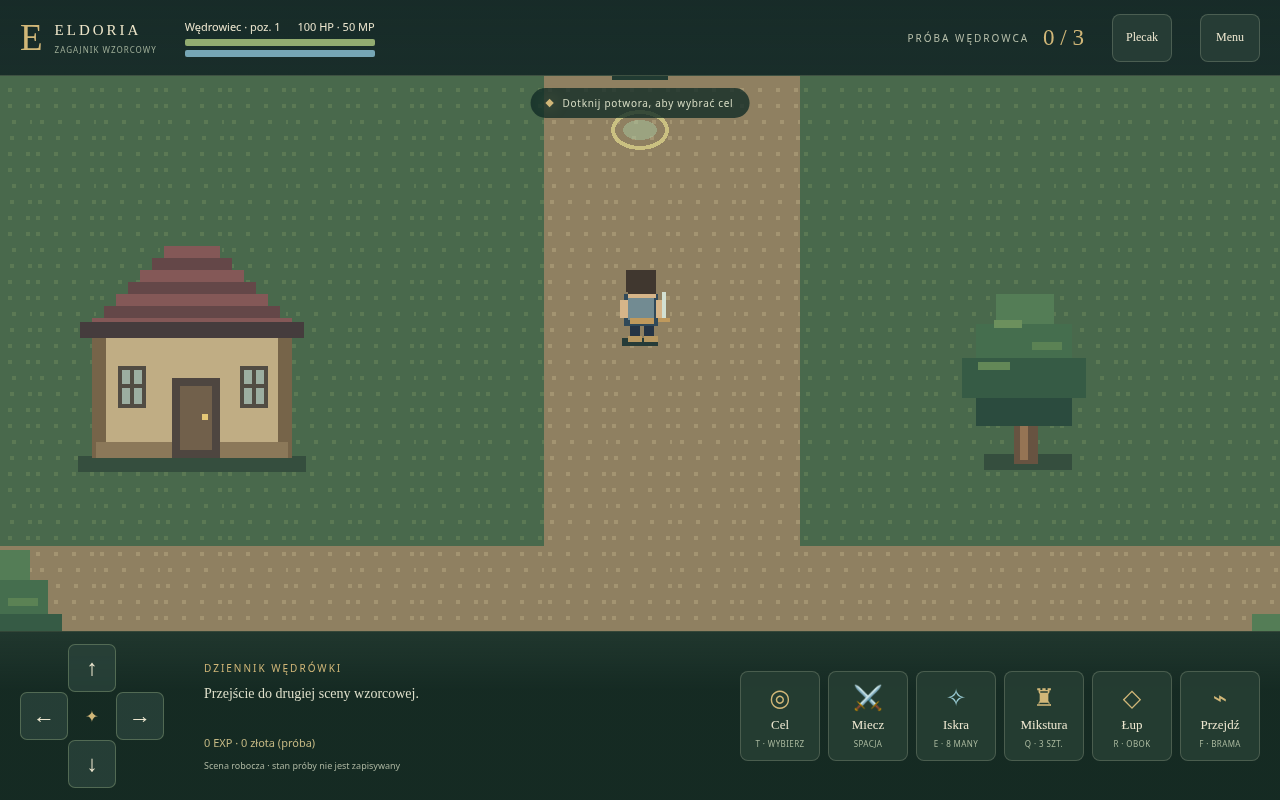
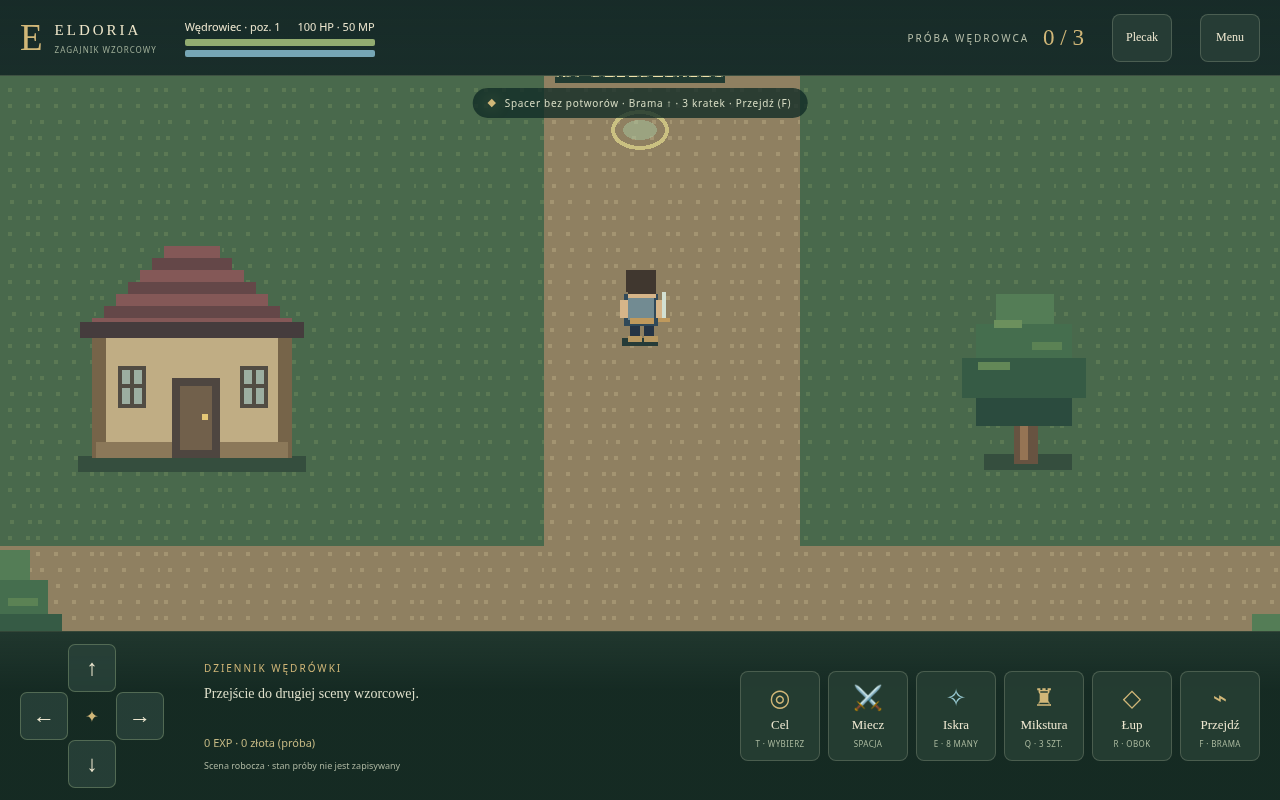
Start trials beside monsters and clarify portal navigation

Changed region(s): [[0.375, 0.0938, 0.625, 0.1562]]

diff --git a/apps/client/src/main.ts b/apps/client/src/main.ts
@@ -22,6 +22,7 @@ let gateway: LocalGateway | undefined;
 let snapshot: Snapshot | undefined;
 let unsubscribe: (() => void) | undefined;
 let playing = false;
+let walkingOnly = false;
 const bagDialog = element<HTMLDialogElement>('#bag');
 let completionDismissed = false;
 let bagSignature = '';
@@ -108,11 +109,19 @@ class World extends Phaser.Scene {
     }
     for (const d of map.decorations) this.objects.push(this.add.image(d.x * 32 + 16, d.y * 32 + 32, d.kind).setOrigin(.5, 1).setDepth(d.y * 32 + 33));
     for (const p of map.portals) {
+      const enter = () => {
+        if (playing && ui.complete.hidden && !bagDialog.open) gateway?.send({ type: 'Interact' });
+      };
       const glow = this.add.graphics().setDepth(-10);
+      glow.setInteractive(new Phaser.Geom.Ellipse(p.x * 32 + 16, p.y * 32 + 16, 48, 48), Phaser.Geom.Ellipse.Contains);
+      glow.input!.cursor = 'pointer';
+      glow.on('pointerdown', enter);
       glow.lineStyle(2, 0xd1c785, .9).strokeEllipse(p.x * 32 + 16, p.y * 32 + 16, 27, 18);
       glow.fillStyle(0xa7c7a0, .5).fillEllipse(p.x * 32 + 16, p.y * 32 + 16, 17, 10);
       this.objects.push(glow);
-      this.objects.push(this.add.text(p.x * 32 + 16, p.y * 32 - 14, 'BRAMA', { fontFamily: 'monospace', fontSize: '9px', color: '#efe2ac', backgroundColor: '#213b32' }).setOrigin(.5));
+      const label = this.add.text(p.x * 32 + 16, p.y * 32 - 14, p.targetMapId === 'grove' ? 'DO ZAGAJNIKA' : 'NA DZIEDZINIEC', { fontFamily: 'monospace', fontSize: '10px', color: '#efe2ac', backgroundColor: '#213b32' }).setOrigin(.5).setInteractive({ useHandCursor: true });
+      label.on('pointerdown', enter);
+      this.objects.push(label);
     }
     this.cameras.main.setBounds(0, 0, map.width * 32, map.height * 32);
     this.playerPosition = '';
@@ -179,7 +188,20 @@ function updateUI(s: Snapshot): void {
   ui.rewards.textContent = `${s.exp} EXP · ${s.gold} złota (próba)`;
   ui.potionCount.textContent = `Q · ${s.potions} SZT.`;
   const target = s.creatures.find(c => c.id === s.selectedId && c.hp > 0);
-  ui.targetLabel.textContent = target ? `${monsters[target.kind].name} · ${target.hp} HP · ${target.x > s.player.x ? '→' : target.x < s.player.x ? '←' : ''}${target.y > s.player.y ? '↓' : target.y < s.player.y ? '↑' : ''} ${Math.abs(target.x - s.player.x) + Math.abs(target.y - s.player.y)} kratek` : 'Dotknij potwora, aby wybrać cel';
+  const map = maps.find(m => m.id === s.mapId)!;
+  const distance = (p: { x: number; y: number }) => Math.abs(p.x - s.player.x) + Math.abs(p.y - s.player.y);
+  const portal = [...map.portals].sort((a, b) => distance(a) - distance(b))[0];
+  const gateHint = portal ? `Brama ${portal.x > s.player.x ? '→' : portal.x < s.player.x ? '←' : ''}${portal.y > s.player.y ? '↓' : portal.y < s.player.y ? '↑' : ''} · ${distance(portal)} kratek · Przejdź (F)` : '';
+  const interact = element<HTMLButtonElement>('#interact');
+  interact.classList.toggle('ready', !!portal && distance(portal) <= 1);
+  interact.title = portal && distance(portal) <= 1 ? 'Brama w zasięgu — kliknij Przejdź lub bramę' : 'Podejdź obok bramy; można też kliknąć ją na mapie';
+  if (walkingOnly) ui.targetLabel.textContent = `Spacer bez potworów · ${gateHint}`;
+  else if (!map.combatAllowed) ui.targetLabel.textContent = `Bezpieczny dziedziniec · Potwory za bramą · ${gateHint}`;
+  else if (target) ui.targetLabel.textContent = `${monsters[target.kind].name} · ${target.hp} HP · ${target.x > s.player.x ? '→' : target.x < s.player.x ? '←' : ''}${target.y > s.player.y ? '↓' : target.y < s.player.y ? '↑' : ''} ${distance(target)} kratek`;
+  else {
+    const count = s.creatures.filter(c => c.hp > 0).length;
+    ui.targetLabel.textContent = count ? `Potwory: ${count} · Dotknij stworzenia lub wybierz Cel (T)` : 'Potwory odradzają się — zaczekaj lub rozpocznij nową próbę';
+  }
   ui.complete.hidden = !s.complete || completionDismissed;
   if (!ui.complete.hidden) resetInput();
   if (bagDialog.open) renderBag(s);
@@ -189,7 +211,9 @@ function updateUI(s: Snapshot): void {
 }
 function start(name: string): void {
   unsubscribe?.(); gateway?.disconnect(); resetInput();
-  gateway = new LocalGateway(new Simulation(maps, name, { now: () => performance.now() }, element<HTMLInputElement>('#walk-mode').checked ? [] : undefined));
+  walkingOnly = element<HTMLInputElement>('#walk-mode').checked;
+  const startingMaps = walkingOnly ? maps : [...maps.filter(m => m.combatAllowed), ...maps.filter(m => !m.combatAllowed)];
+  gateway = new LocalGateway(new Simulation(startingMaps, name, { now: () => performance.now() }, walkingOnly ? [] : undefined));
   unsubscribe = gateway.subscribe(updateUI); gateway.connect();
   completionDismissed = false; ui.complete.hidden = true; playing = true; ui.menu.hidden = true; ui.hud.hidden = false;
 }
@@ -217,18 +241,19 @@ for (const button of document.querySelectorAll<HTMLButtonElement>('[data-directi
   });
   for (const name of ['pointerup', 'pointercancel', 'lostpointercapture']) button.addEventListener(name, event => pointerDirections.delete((event as PointerEvent).pointerId));
 }
-const keyDirections: Record<string, Direction> = { ArrowUp: 'up', ArrowDown: 'down', ArrowLeft: 'left', ArrowRight: 'right', w: 'up', s: 'down', a: 'left', d: 'right' };
+const keyDirections: Record<string, Direction> = { arrowup: 'up', arrowdown: 'down', arrowleft: 'left', arrowright: 'right', w: 'up', s: 'down', a: 'left', d: 'right' };
 window.addEventListener('keydown', event => {
   if (!playing || event.target instanceof HTMLInputElement) return;
-  if (event.key === 't' && !event.repeat && !bagDialog.open) { event.preventDefault(); cycleTarget(); return; }
-  if (event.key === 'i' && !event.repeat) { event.preventDefault(); toggleBag(); return; }
+  const key = event.key.toLowerCase();
+  if (key === 't' && !event.repeat && !bagDialog.open) { event.preventDefault(); cycleTarget(); return; }
+  if (key === 'i' && !event.repeat) { event.preventDefault(); toggleBag(); return; }
   if (!ui.complete.hidden || bagDialog.open) return;
-  const d = keyDirections[event.key];
-  if (d) { event.preventDefault(); heldKeys.set(event.key, d); if (!event.repeat) movement(); return; }
-  const type = ({ ' ': 'Attack', e: 'Cast', q: 'UseItem', f: 'Interact', r: 'Loot' } as const)[event.key as ' ' | 'e' | 'q' | 'f' | 'r'];
+  const d = keyDirections[key];
+  if (d) { event.preventDefault(); heldKeys.set(key, d); if (!event.repeat) movement(); return; }
+  const type = ({ ' ': 'Attack', e: 'Cast', q: 'UseItem', f: 'Interact', r: 'Loot' } as const)[key as ' ' | 'e' | 'q' | 'f' | 'r'];
   if (type && !event.repeat) { event.preventDefault(); gateway?.send({ type }); }
 });
-window.addEventListener('keyup', event => { heldKeys.delete(event.key); });
+window.addEventListener('keyup', event => { heldKeys.delete(event.key.toLowerCase()); });
 window.addEventListener('blur', resetInput);
 window.addEventListener('resize', resetInput);
 document.addEventListener('visibilitychange', () => {

diff --git a/tests/e2e/client.spec.ts b/tests/e2e/client.spec.ts
@@ -6,11 +6,16 @@ async function start(page: Page, walk = false) {
   await page.getByRole('button', { name: 'Rozpocznij' }).click();
   await expect(page.locator('#hud')).toBeVisible();
   await expect(page.locator('#hud')).toHaveAttribute('data-position', '13,11');
-  await page.waitForTimeout(500);
-  for (let i = 0; i < 7; i++) { await page.keyboard.press('ArrowUp'); await page.waitForTimeout(220); }
-  await page.getByRole('button', { name: /Przejdź/ }).click();
-  await expect(page.locator('#hud')).toHaveAttribute('data-map', 'grove');
-  await expect(page.locator('#hud')).toHaveAttribute('data-position', '13,11');
+  await expect(page.locator('#hud')).toHaveAttribute('data-map', walk ? 'courtyard' : 'grove');
+  if (walk) {
+    await expect(page.locator('#target-label')).toContainText('Spacer bez potworów');
+    await page.waitForTimeout(220);
+    for (let i = 0; i < 7; i++) { await page.keyboard.press('ArrowUp'); await page.waitForTimeout(220); }
+    await page.getByRole('button', { name: /Przejdź/ }).click();
+    await expect(page.locator('#hud')).toHaveAttribute('data-map', 'grove');
+    await expect(page.locator('#hud')).toHaveAttribute('data-position', '13,11');
+    await expect(page.locator('#target-label')).toContainText('Spacer bez potworów');
+  } else await expect(page.locator('#target-label')).toContainText('Potwory: 3');
   await page.waitForTimeout(500);
 }
 async function selectRat(page: Page, offsetX: number, offsetY: number) {
@@ -129,4 +134,32 @@ test('style review screenshots and touch control sizes', async ({ page }, testIn
     const box = await button.boundingBox();
     expect(box?.width).toBeGreaterThanOrEqual(48); expect(box?.height).toBeGreaterThanOrEqual(48);
   }
+});
+
+
+test('safe courtyard keeps directions visible and clicking its nearby gate returns to monsters', async ({ page }) => {
+  test.setTimeout(60000);
+  await start(page);
+  for (let i = 0; i < 7; i++) { await page.waitForTimeout(220); await page.keyboard.press('W'); }
+  await page.getByRole('button', { name: /Przejdź/ }).click();
+  await expect(page.locator('#hud')).toHaveAttribute('data-map', 'courtyard');
+  await expect(page.locator('#target-label')).toContainText('Potwory za bramą');
+  for (let i = 0; i < 11; i++) { await page.waitForTimeout(220); await page.keyboard.press('W'); }
+  await expect(page.locator('#message')).toHaveText('Przejście zablokowane.');
+  await expect(page.locator('#target-label')).toContainText('Potwory za bramą');
+  await page.getByRole('button', { name: /Przejdź/ }).click();
+  await expect(page.locator('#hud')).toHaveAttribute('data-map', 'courtyard');
+  for (let i = 0; i < 3; i++) { await page.waitForTimeout(220); await page.keyboard.press('S'); }
+  await expect(page.locator('#hud')).toHaveAttribute('data-position', '13,4');
+  await expect(page.locator('#interact')).toHaveClass(/ready/);
+  await page.waitForTimeout(700);
+  const viewport = page.viewportSize()!;
+  const top = viewport.height <= 600 ? 60 : 76, bottom = viewport.height <= 600 ? 104 : 168;
+  const zoom = viewport.width >= 1000 && viewport.height >= 600 ? 2 : 1;
+  await page.locator('canvas').click({ position: { x: viewport.width / 2, y: top + (viewport.height - top - bottom) / 2 - 48 * zoom } });
+  await expect(page.locator('#hud')).toHaveAttribute('data-map', 'grove');
+  await page.getByRole('button', { name: /Cel/ }).click();
+  await expect(page.locator('#target-label')).toContainText('Szczur');
+  await page.getByRole('button', { name: /Iskra/ }).click();
+  await expect(page.locator('#hp-label')).toContainText('42 MP');
 });

diff --git a/apps/client/index.html b/apps/client/index.html
@@ -14,8 +14,8 @@
         <label class="walk-choice"><input type="checkbox" id="walk-mode"/> Spacer bez potworów — ocena grafiki</label>
         <p id="name-error" role="alert"></p>
       </form>
-      <div class="menu-meta"><span>0.0.1 · SCENA WZORCOWA</span><span>GRAFIKA ROBOCZA · BEZ AUDIO</span></div>
-      <div class="instructions"><strong>Próba Wędrowca</strong><p>Pokonaj szczura, żuka i wilka. Przejdź przez bramę na północy. Wybierz cel dotykiem, uderz lub użyj Iskry, a potem zbierz łup. To próbka sterowania i stylu przed budową pełnego świata.</p><span>WASD / strzałki · Spacja: miecz · E: Iskra · Q: mikstura · F: brama · R: łup · I: plecak</span></div>
+      <div class="menu-meta"><span>0.0.2 · SCENA WZORCOWA</span><span>GRAFIKA ROBOCZA · BEZ AUDIO</span></div>
+      <div class="instructions"><strong>Próba Wędrowca</strong><p>Próba zaczyna się w zagajniku, obok szczura i żuka. Wilka szukaj na południowym wschodzie. Bezpieczny dziedziniec jest za bramą na północy. Wybierz cel dotykiem, uderz lub użyj Iskry, a potem zbierz łup. To próbka sterowania i stylu przed budową pełnego świata.</p><span>WASD / strzałki · Spacja: miecz · E: Iskra · Q: mikstura · F: brama · R: łup · I: plecak</span></div>
     </div>
     <div class="scene-note">DZIEDZINIEC · STUDIUM ŚWIATA <span>01 / 02</span></div>
   </main>

diff --git a/apps/client/src/style.css b/apps/client/src/style.css
@@ -732,3 +732,14 @@ h2 {
   height:20px;
   accent-color:var(--gold)
 }
+
+.actions #interact.ready {
+  border-color: var(--gold);
+  background: #4b5134;
+}
+.world-label {
+  max-width: calc(100vw - 24px);
+  white-space: normal;
+  text-align: center;
+  line-height: 1.4;
+}

diff --git a/docs/TESTER.md b/docs/TESTER.md
@@ -1,4 +1,4 @@
-# Eldoria 0.0.1 — pierwsza próba gry
+# Eldoria 0.0.2 — pierwsza próba gry
 
 To grywalny prototyp offline M0 i niezależnych mechanik T07/T08, **nie pełna wersja 0.1**. Obie mapy 28×22 to sceny wzorcowe. Pełne Vareon 48×48, las 64×64, NPC, sklep, quest i zapis pozostają przed nami. Grafika jest autorskim placeholderem, audio celowo wyłączone. Odświeżenie strony lub rozpoczęcie nowej próby zeruje postęp.
 
@@ -21,15 +21,15 @@ Otwórz na telefonie adres wypisany przez skrypt. Obróć telefon do poziomu. Ko
 
 ## Pięć kroków testu
 
-1. Wpisz imię i rozpocznij. Strzałkami/WASD lub D-padem idź w górę do świecącej bramy. Stojąc na niej lub obok, wybierz **Przejdź** (F). Samo podejście nie teleportuje. Na dziedzińcu nie ma walki.
-2. W zagajniku dotknij szczura albo wybierz **Cel** (T). Iskra (E) trafia do 4 kratek, kosztuje 8 many i odnawia się przez 1,5 s. Miecz (Spacja) działa z sąsiedniej kratki co 0,8 s. Powtórz walkę z żukiem; wilka szukaj głębiej na południowym wschodzie. Wskaźnik celu pokazuje kierunek i odległość. Wilk atakuje sam; pozostałe stworzenia dopiero po zaczepieniu.
+1. Wpisz imię i rozpocznij z odznaczonym „Spacerem bez potworów”. Trafisz od razu do zagajnika: szczur jest powyżej po prawej, żuk dalej na prawo, a wilk na południowym wschodzie. Na górze zobaczysz „Potwory: 3”. WASD/strzałki i D-pad poruszają postacią; wielkie litery i Caps Lock również działają.
+2. Dotknij szczura albo wybierz **Cel** (T). Iskra (E) trafia do 4 kratek, kosztuje 8 many i odnawia się przez 1,5 s. Miecz (Spacja) działa z sąsiedniej kratki co 0,8 s. Powtórz walkę z żukiem; wilka szukaj głębiej na południowym wschodzie. Wskaźnik celu pokazuje kierunek i odległość. Wilk atakuje sam; pozostałe stworzenia dopiero po zaczepieniu.
 3. Gdy HP spadnie, użyj **Mikstury** (Q). Masz trzy, każda leczy do 40 HP, z przerwą 3 s. Pełne HP nie zużywa mikstury. Po pokonaniu stworzenia podejdź do sakiewki i wybierz **Łup** (R), osobno dla każdej sakiewki. EXP jest przyznawane za pokonanie; złoto i materiały dopiero po podniesieniu.
 4. Otwórz **Plecak** (I). Sprawdź złoto, chitynę/skórę, mikstury i wyposażenie. Zdejmij i załóż miecz/tunikę. Ruch pod otwartym oknem ma być zablokowany. Pokonanie każdego z trzech typów kończy próbę. Zamknij komunikat przyciskiem „Zbierz pozostały łup”, jeśli chcesz jeszcze zwiedzać. Śmierć przywraca HP/manę na bezpiecznym dziedzińcu bez utraty EXP/łupu.
-5. W menu można zaznaczyć **Spacer bez potworów**, aby ocenić wygląd bez walki. Zrób pięć podróży przez bramę w obie strony, sprawdź ściany/podstawy drzew, ostrość podczas ruchu, obrót telefonu i jednoczesny ruch + atak/czar. Potem rozpocznij nową próbę — postęp powinien się wyzerować, bo zapis z T10 nie jest jeszcze zaimplementowany.
+5. Brama na północy prowadzi na bezpieczny dziedziniec. Stań na niej lub obok, a następnie wybierz **Przejdź** (F) albo kliknij bramę. Przycisk podświetla się w zasięgu; samo podejście nie teleportuje. Wskazówka na górze pokazuje kierunek i odległość do bramy na dziedzińcu. W menu można zaznaczyć **Spacer bez potworów**, aby ocenić wygląd bez walki — oznaczenie tego trybu jest widoczne przez całą grę, również w zagajniku. Zrób pięć podróży w obie strony, sprawdź ściany/podstawy drzew, ostrość, obrót telefonu i jednoczesny ruch + atak/czar. Potem rozpocznij nową próbę — postęp powinien się wyzerować, bo zapis z T10 nie jest jeszcze zaimplementowany.
 
 ## Scena do oceny
 
-[Widok desktopowy](screenshots/scene-desktop.png) · [widok mobilny](screenshots/scene-mobile.png) · [ukończona próba](screenshots/trial-mobile.png). To zrzuty z końcowych testów, z placeholderami.
+[Potwory po starcie — desktop](screenshots/combat-desktop.png) · [potwory po starcie — telefon](screenshots/combat-mobile.png) · [Widok desktopowy stylu](screenshots/scene-desktop.png) · [widok mobilny](screenshots/scene-mobile.png) · [ukończona próba](screenshots/trial-mobile.png). To zrzuty z końcowych testów, z placeholderami.
 
 ## Co zgłosić
 

diff --git a/README.md b/README.md
@@ -1,6 +1,6 @@
 # Eldoria — specyfikacja projektu
 
-Status implementacji: **0.0.1 — grywalna scena wzorcowa offline**, przed akceptacją grafiki M0. Pełna wersja 0.1, NPC, sklep, quest i zapis nie są jeszcze ukończone. Specyfikacja poniżej pozostaje docelowym wymaganiem (wersja 1.0, 9 października 2026).
+Status implementacji: **0.0.2 — grywalna scena wzorcowa offline**, przed akceptacją grafiki M0. Pełna wersja 0.1, NPC, sklep, quest i zapis nie są jeszcze ukończone. Specyfikacja poniżej pozostaje docelowym wymaganiem (wersja 1.0, 9 października 2026).
 
 ## Zagraj w bieżący prototyp
 
@@ -11,7 +11,7 @@ npm ci
 npm run dev
 ```
 
-Telefon w tej samej sieci: `npm run dev:lan`. [Instrukcja testera](docs/TESTER.md) opisuje sterowanie, pięć kroków próby i ograniczenia. Bieżąca pętla: bezpieczny dziedziniec → brama → szczur/żuk/wilk → łup i plecak → ukończona próba. Dostępny również spacer bez potworów do oceny grafiki. Stan tej próby nie jest zapisywany.
+Telefon w tej samej sieci: `npm run dev:lan`. [Instrukcja testera](docs/TESTER.md) opisuje sterowanie, pięć kroków próby i ograniczenia. Domyślna próba zaczyna się od razu w zagajniku obok potworów: szczur/żuk/wilk → łup i plecak → ukończona próba. Przez bramę można wrócić na bezpieczny dziedziniec. Dostępny również spacer bez potworów do oceny grafiki. Stan tej próby nie jest zapisywany.
 
 Mapy wzorcowe i sprite’y są autorskimi placeholderami; źródła i opis w [ASSET_LICENSES.md](ASSET_LICENSES.md). Zanim powstaną pełne mapy T05, tester ocenia scenę T02. Weryfikacja i kolejka: [TASKS.md](TASKS.md).
 
@@ -119,7 +119,7 @@ npm run test:e2e
 npm run validate:content
 npm run build
 ```
-Wszystkie powyższe polecenia są już dostępne w prototypie 0.0.1. Testy e2e wymagają Chromium (instrukcja w docs/TESTER.md). dev:lan ma drukować adres do testów w tej samej sieci; nie wystawiać serwera automatycznie do Internetu. Etap online dodaje compose dla PostgreSQL i komendę dev:online. Etap Android dodaje komendy sync/build oraz opis SDK/JDK zgodny z wybraną wersją Capacitor. Bez podpisywania kluczem produkcyjnym ani publikowania w sklepie bez polecenia właściciela.
+Wszystkie powyższe polecenia są już dostępne w prototypie 0.0.2. Testy e2e wymagają Chromium (instrukcja w docs/TESTER.md). dev:lan ma drukować adres do testów w tej samej sieci; nie wystawiać serwera automatycznie do Internetu. Etap online dodaje compose dla PostgreSQL i komendę dev:online. Etap Android dodaje komendy sync/build oraz opis SDK/JDK zgodny z wybraną wersją Capacitor. Bez podpisywania kluczem produkcyjnym ani publikowania w sklepie bez polecenia właściciela.
 
 ## Zakres późniejszych wersji
 Cztery autorskie profesje (wojownik, łucznik, mag ognia, opiekun natury), lochy, questy fabularne i bossowie. Po stabilizacji: handel, PvP na oznaczonych terenach, gildie, moderacja. Monetyzacja dopiero po weryfikacji gry i wymogów platformy; preferowane kosmetyki, brak sprzedaży przewagi w pierwszej wersji.

diff --git a/TASKS.md b/TASKS.md
@@ -163,6 +163,17 @@ Aktualne wymogi Android/Google Play, prywatność, usuwanie konta, podpisywanie,
 
 `apps/client`, `packages/domain`, `packages/content`, `packages/protocol`, `assets/source`, `scripts`, `tests/e2e`, konfiguracja monorepo i CI, `ASSET_LICENSES.md`, `docs/TESTER.md`, screenshoty, README i ten dziennik. Zmiany przygotowane lokalnie do zapisania; brak automatycznego wdrożenia.
 
+## Stan sesji — 10 października 2026
+
+- Wersja do testów: **0.0.2**. Zgłoszenie testera: „Nie mam żadnych potworów”, screenshot bezpiecznego dziedzińca z komunikatem o zablokowanym ruchu.
+- Przyczyna: domyślny start na bezpiecznej mapie i nieczytelna instrukcja dojścia do zagajnika. Normalna próba zaczyna się teraz w zagajniku: szczur i żuk są w pobliżu, wilk dalej na południowym wschodzie. Tryb spaceru nadal zaczyna się na dziedzińcu i stale pokazuje informację „Spacer bez potworów”.
+- Naprawione: stała wskazówka do bramy (kierunek i odległość), informacja o potworach za bramą na dziedzińcu, licznik żywych potworów w zagajniku, wyróżnienie dostępnego przejścia oraz kliknięcie bramy. Domena nadal wymaga podejścia do bramy. Klawiatura działa również z Caps Lock.
+- Zmienione pliki: klient, testy e2e, wersje manifestów i lockfile, README, docs/TESTER.md, screenshoty oraz TASKS.md.
+- Kontrole: `npm run typecheck` — PASS; `npm run lint` — PASS; `npm test` — **29 PASS**; `npm run build` (wraz z validate:content) — PASS, 2 mapy. `npm run test:e2e` — **11 PASS, 1 SKIPPED**, desktop i mobilny Chromium; pominięty duplikat wielodotyku na desktopie, scenariusz mobilny zaliczony. Pełny przebieg ok. 3,2 min.
+- Nowy scenariusz regresji: start przy potworach → dziedziniec → blokada ruchu bez utraty wskazówki → brak teleportu z daleka → kliknięcie pobliskiej bramy → wybór szczura i rzucenie Iskry. Testuje też wielkie litery klawiatury. Dotychczasowa pełna próba walki, łupu i restartu nadal przechodzi na obu viewportach.
+- Test fizycznego telefonu i audio — NIE WYKONANO. Grafika nadal robocza; T02 pozostaje REVIEW, dalsze pełne mapy czekają na akceptację stylistyki według AGENTS.md. Pozostałe statusy zadań bez zmian.
+- Następny test właściciela: uruchomić 0.0.2 bez zaznaczonego spaceru, pokonać szczura/żuka/wilka, zebrać łup i sprawdzić powrót przez bramę. Instrukcja w docs/TESTER.md.
+
 ## Szablon raportu zadania
 ID / status / zmienione pliki / wykonane komendy i wyniki / test manualny / ograniczenia / następny krok.
 
